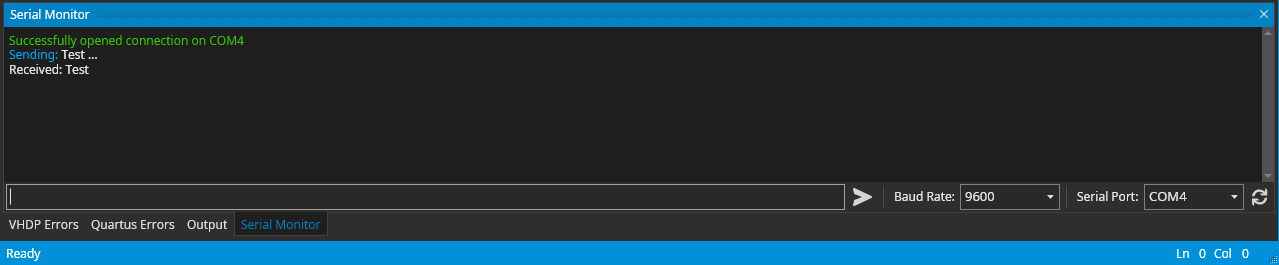
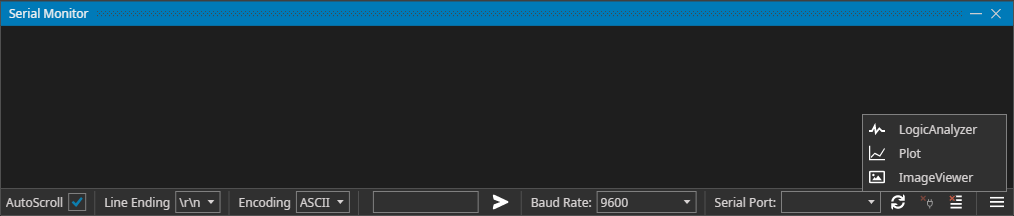
.

Changed region(s): [[0.0, 0.0, 1.0, 1.0]]

diff --git a/docs/ide/serialmonitor.md b/docs/ide/serialmonitor.md
@@ -4,6 +4,10 @@ title: Serial Monitor
 sidebar_label:  Serial Monitor
 ---
 
+:::caution
+This page is currently outdated
+:::
+
 ## Connect with your FPGA
 
 1. Make sure that you have the correct driver installed.
@@ -15,7 +19,7 @@ sidebar_label:  Serial Monitor
 
 4. Select `Baud Rate` and `Serial Port`. The Baud Rate should match the one you are using in your [UART Interface](#) (Documentation coming soon).
 
-![Select Baud Rate and Serial Port](/img/ide/SerialMonitorSelect.PNG)
+![Select Baud Rate and Serial Port](/img/ide/SerialMonitor.PNG)
 
 
 ## Test if everything works

diff --git a/docs/ide/toolbar.md b/docs/ide/toolbar.md
@@ -4,6 +4,11 @@ title: Toolbar
 sidebar_label:  Toolbar
 ---
 
+:::caution
+This page is currently outdated
+:::
+
+
 <img src="/img/ide/Toolbar.png"/>
 <img src="/img/ide/Toolbar_Label.png" className="invertDark"/>
 
